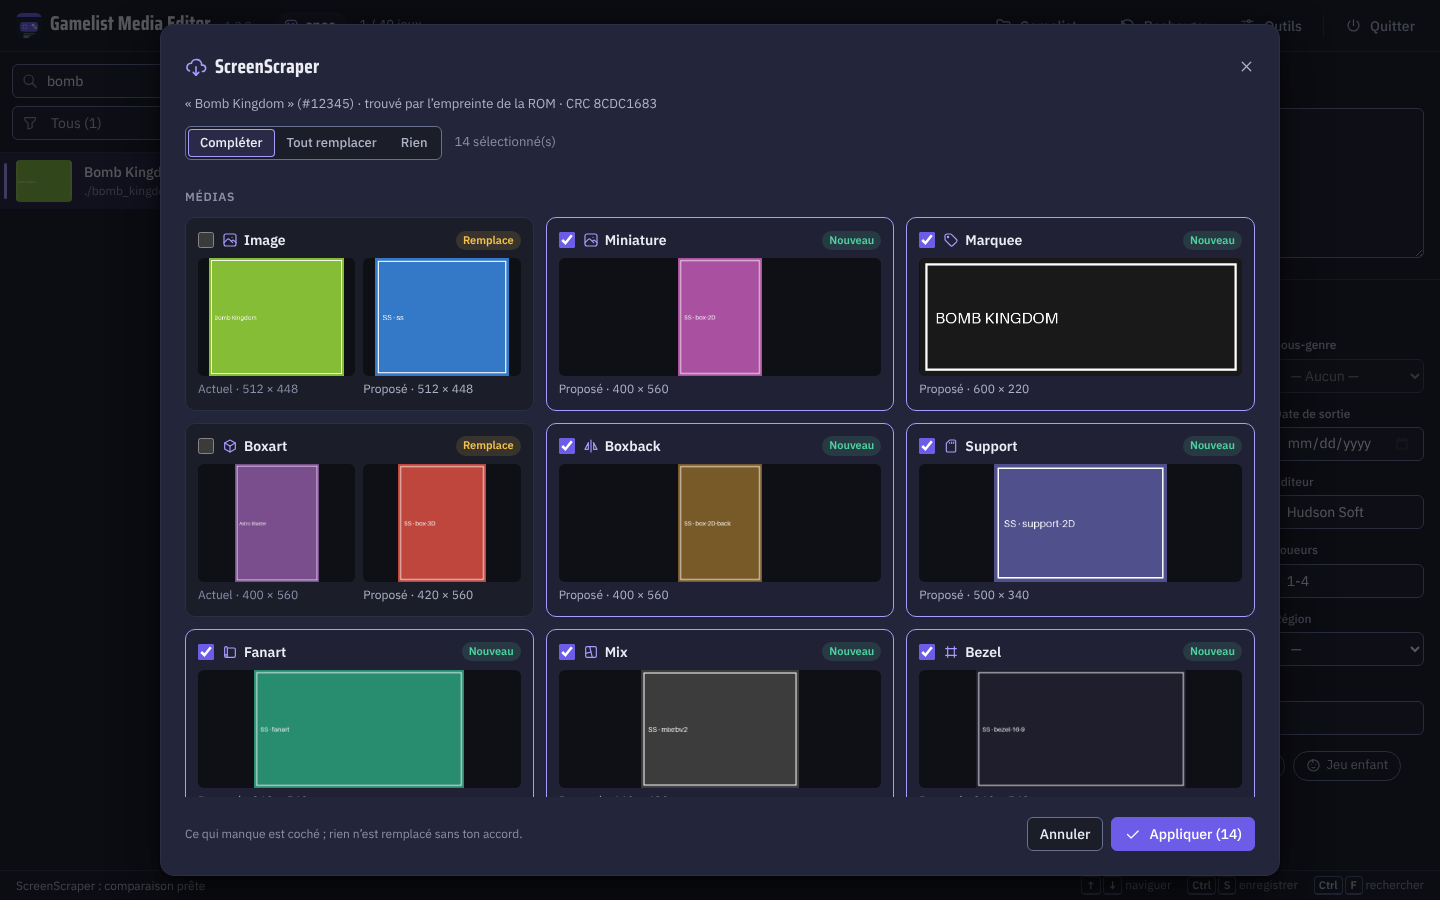
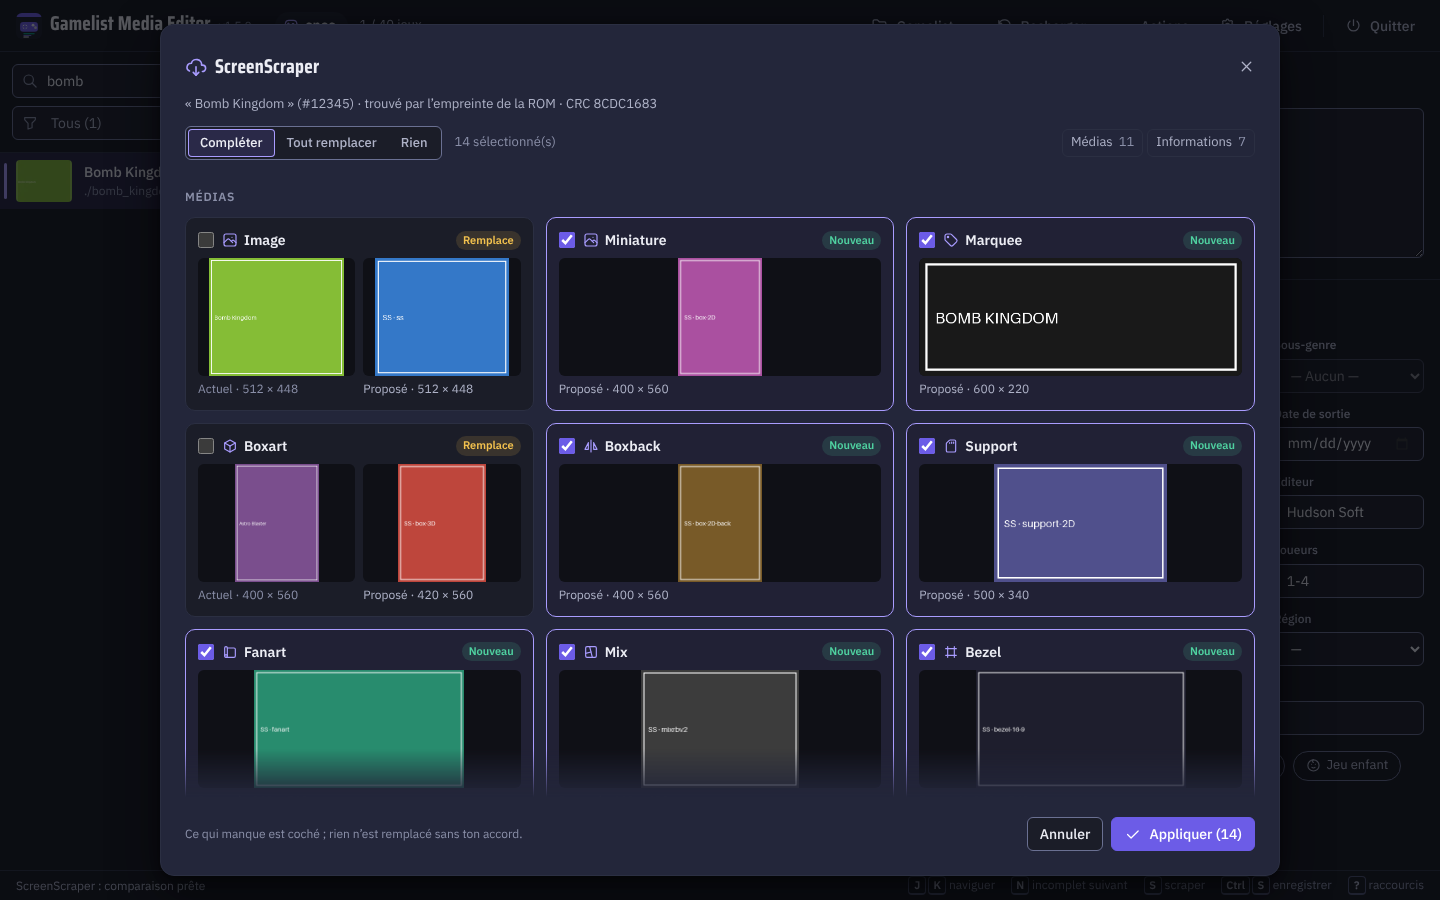
release: v1.5.0
- Version 1.5.0 (2026-11-14) in gme/version.py
- CHANGELOG: Unreleased becomes 1.5.0 with a one-line summary
- Release notes docs/release-notes/RELEASE_NOTES_v1.5.0.md
- README and wiki: version, download link, Check ROMs / Check media,
  required media, Recycle Bin, ui_settings.json, upgrade steps
- New screenshots (editor, scrape, check media)

Claude-Session: https://claude.ai/code/session_01GzUeu3gZTjZemLc2c6HBQD

diff --git a/gme/version.py b/gme/version.py
@@ -2,6 +2,6 @@
 
 
 SS_SOFTNAME = "GamelistMediaEditor"
-APP_VERSION = "1.4.0"          # single source: UI header, About, User-Agent, console
-APP_RELEASE_DATE = "2026-10-24"
+APP_VERSION = "1.5.0"          # single source: UI header, About, User-Agent, console
+APP_RELEASE_DATE = "2026-11-14"
 APP_UA = f"{SS_SOFTNAME}/{APP_VERSION}"

diff --git a/README.md b/README.md
@@ -4,7 +4,7 @@
 
 Local web app to edit the media and metadata of EmulationStation **RetroBat** (and Batocera / Recalbox) `gamelist.xml` files, with drag-and-drop and built-in scrapers.
 
-**Version 1.4.0** · [Documentation (Wiki)](https://github.com/Kraran/gamelist-media-editor/wiki) · [Releases](https://github.com/Kraran/gamelist-media-editor/releases) · [Changelog](CHANGELOG.md)
+**Version 1.5.0** · [Documentation (Wiki)](https://github.com/Kraran/gamelist-media-editor/wiki) · [Releases](https://github.com/Kraran/gamelist-media-editor/releases) · [Changelog](CHANGELOG.md)
 
 ![The editor: game list, media of the selected game, description and metadata](docs/screenshots/editor.png)
 
@@ -14,9 +14,9 @@ Local web app to edit the media and metadata of EmulationStation **RetroBat** (a
 
 **Media**
 - **Media gallery**: each media shown in its own shape (upright boxes, wide logos…) with its size in pixels; missing media grouped below
-- Drag-and-drop (file or image from a web page) or click to choose a file, for **image**, **video**, **marquee**, **manual**, **boxback**, **support** (`cartridge`), **boxart**, **fanart**, **mix**, **maps**
-- RetroBat extras from ScreenScraper: **thumbnail**, **bezel**, **Pad2Key** (`.keys`)
-- Image lightbox, upload limit 50 MB, previous file removed when a media is replaced
+- Drag-and-drop (file or image from a web page) or click to choose a file, for **image**, **video**, **marquee**, **manual**, **boxback**, **support** (`cartridge`), **boxart**, **fanart**, **mix**, **maps**, **thumbnail**, **bezel**
+- RetroBat extra from ScreenScraper: **Pad2Key** (`.keys`)
+- Image lightbox, upload limit 50 MB; a replaced file goes to the Recycle Bin, never when another game still uses it
 
 **Metadata**
 - Name, description, genre, rating (**stars**), release date (**date picker**), developer, publisher, family, players, language and region (**named lists**), `arcadesystemname`; suggestions from the values already in the gamelist
@@ -41,10 +41,12 @@ Local web app to edit the media and metadata of EmulationStation **RetroBat** (a
 - **Keyboard**: `J`/`K` next/previous game, `N` next incomplete, `S` scrape, `Ctrl+S` save, `Ctrl+F` or `/` search, `?` shows the list
 - **Open another `gamelist.xml`** at any time (file browser, the 10 most recent files in one click), **Reload** after an outside edit
 - **Actions** menu (whole gamelist): `.bak` backup, arcade system names from `mame.xml`, **Check ROMs** (gamelist vs files of the folder: add missing ROMs, remove entries without ROM, merge duplicates, export the report), **Check media** (unused media to the Recycle Bin, links to missing files removed, export the report), purge all `<region>` tags
-- **Settings**: language, ScreenScraper member login and media types, scrape source chosen per system, keyboard shortcuts
+- **Settings**: language, ScreenScraper member login, region and media types, scrape source and required media per system, keyboard shortcuts (kept in `ui_settings.json`)
 - Game ⋯ menu: copy the ROM path, delete the game (ROM, tracks / discs, media and XML entry, listed before; files another game uses are kept; to the Recycle Bin) with optional backup
 - Application window without address bar when Edge / Chrome / Brave is available; **Quit** stops the server
 - **13 languages**
+
+![Check media: unused media with their size, links to missing files, clean-up to the Recycle Bin](docs/screenshots/check-media.png)
 
 **Safety**
 - Server bound to `127.0.0.1`; requests from other websites (CSRF) and foreign `Host` headers (DNS rebinding) are rejected
@@ -57,7 +59,7 @@ Local web app to edit the media and metadata of EmulationStation **RetroBat** (a
 
 ### Option A — Windows executable (recommended)
 
-1. Download **`GamelistMediaEditor-Windows-v1.4.0.zip`** from the [v1.4.0 release](https://github.com/Kraran/gamelist-media-editor/releases/tag/v1.4.0)
+1. Download **`GamelistMediaEditor-Windows-v1.5.0.zip`** from the [v1.5.0 release](https://github.com/Kraran/gamelist-media-editor/releases/tag/v1.5.0)
 2. Extract anywhere and run **`GamelistMediaEditor.exe`** (no Python needed)
 3. The app window opens on http://127.0.0.1:5050 — use **Gamelist…** to open a `gamelist.xml`
 

diff --git a/docs/release-notes/RELEASE_NOTES_v1.5.0.md b/docs/release-notes/RELEASE_NOTES_v1.5.0.md
@@ -1,0 +1,52 @@
+# Gamelist Media Editor v1.5.0
+
+Check your gamelist against your ROMs and your media, decide which media each system needs, and never lose a file by mistake.
+
+![The editor](https://raw.githubusercontent.com/Kraran/gamelist-media-editor/v1.5.0/docs/screenshots/editor.png)
+
+## Highlights
+
+**Check ROMs** (Actions menu)
+- Compares the gamelist with the files of its folder: **ROMs missing from the gamelist**, **entries whose ROM is gone**, **games listed twice**
+- Tick what to change, then *Update the gamelist*: missing ROMs are added (ready to scrape), dead entries removed (optionally with their media), duplicates merged into the most complete entry; `.bak` first
+- Understands `.cue` / `.gdi` / `.m3u` tracks and discs, folders such as `Game.ps3`, and MAME: `.chd` disks are never offered as games
+- *Export the report* as a text file; 30,000 files checked in under a second
+
+**Check media** (Actions menu)
+- **Unused media** in `images/`, `videos/`, `manuals/` (with thumbnails and the size to free) and **links to missing files**
+- *Clean up* moves the unused files to the **Recycle Bin** and removes the broken tags; a file any game uses is never offered
+
+![Check media](https://raw.githubusercontent.com/Kraran/gamelist-media-editor/v1.5.0/docs/screenshots/check-media.png)
+
+**Required media per system**
+- Choose, per system, the media a game must have to be complete (by default image, video, marquee and box art; no box on arcade systems)
+- The list count (`3/4`), the *Required media missing* filter and *Next incomplete* (`N`) follow them; a game's missing required media come first
+- **Thumbnail** and **Bezel** are now visible and editable in the editor
+
+**Safer with your files**
+- *Delete this game* lists exactly what goes (ROM, its tracks or discs, the folder named like the ROM, the `.keys` file, the media) and **keeps what another game uses**; everything goes to the **Recycle Bin**
+- Replacing a media sends the old file to the Recycle Bin, and never deletes or overwrites a file another game uses
+- In a confirmation, **Enter on *Cancel* no longer confirms**; a dialog that deletes something opens with the focus on *Cancel*
+
+## Other changes
+
+- Up to **10 recent gamelists**, opened in one click and kept next to the app (they were sometimes forgotten)
+- Language, scrape sources and required media are kept in `ui_settings.json` next to the app; ScreenScraper settings save as they change; 24 preferred regions instead of 5
+- Media gallery: images are no longer cut; a replaced picture shows at once
+- Keyboard: Tab stays inside the open dialog; Enter applies the scrape after ticking a row; the comparison has *Media* / *Information* shortcuts
+- *Purge `<region>`* refreshes the open game; *About* mentions Steam
+
+Full list: [CHANGELOG.md](https://github.com/Kraran/gamelist-media-editor/blob/v1.5.0/CHANGELOG.md)
+
+## Downloads
+
+| File | Description |
+|------|-------------|
+| `GamelistMediaEditor-Windows-v1.5.0.zip` | Standalone Windows `.exe` (no Python needed) |
+| Source code (zip / tar.gz) | Python 3.9+ (`pip install -r requirements.txt`) |
+
+## Upgrade from 1.4.0
+
+Replace the app files and keep `screenscraper_config.json`, `recent_gamelists.json` and, from now on, `ui_settings.json`. Nothing to migrate in `gamelist.xml`; your language and scrape sources are taken over at first start.  
+From source: run `python -m pip install -r requirements.txt` (new dependency **Send2Trash**, for the Recycle Bin).  
+The list count now counts the **required media** of the system: pick them in **Settings › Required media**.

diff --git a/docs/wiki/Fonctionnalités.md b/docs/wiki/Fonctionnalités.md
@@ -1,14 +1,15 @@
 # Fonctionnalités
 
-Version documentée : **1.4.0**
+Version documentée : **1.5.0**
 
 ## Médias
 
-- Glisser-déposer (fichier ou image d’une page web) ou clic pour choisir : image, video, marquee, manual, boxback, **support**, **boxart**, **fanart**, **mix**, **maps**
+- Glisser-déposer (fichier ou image d’une page web) ou clic pour choisir : image, video, marquee, manual, boxback, **support**, **boxart**, **fanart**, **mix**, **maps**, **miniature**, **bezel**
 - Galerie : chaque média dans sa forme, avec sa taille en pixels ou la durée de la vidéo ; médias manquants regroupés
 - Clic image → agrandissement
 - Extensions réelles (PNG/JPG/MP4…), jamais `.php` ; écritures atomiques (jamais de fichier à moitié écrit)
-- Extras RetroBat au scrape ScreenScraper : miniature, bezel 16:9, Pad2Key (`.keys`)
+- Extra RetroBat au scrape ScreenScraper : Pad2Key (`.keys`)
+- Un fichier remplacé va à la **Corbeille** ; un fichier qu’un autre jeu utilise n’est jamais effacé ni écrasé
 
 ## Métadonnées
 
@@ -28,7 +29,7 @@ Version documentée : **1.4.0**
 
 ## Liste
 
-- **Miniatures** et **compteur de médias** par jeu (survol : ce qui manque)
+- **Miniatures** et **compteur de médias requis** par jeu (survol : ce qui manque)
 - Recherche, **filtre** par média manquant avec compteurs
 - **Médias requis par système** : le compteur de la liste, le filtre et **Suivant incomplet** (`N`) s’en servent
 - Rapide sur de très grosses listes (30 000 jeux MAME s’ouvrent en une seconde environ)
@@ -38,14 +39,15 @@ Version documentée : **1.4.0**
 
 - Démarre **sans** gamelist
 - Ouvrir un autre XML (explorateur + récents), recharger depuis le disque
-- **Actions** : `.bak` manuel, systèmes arcade depuis `mame.xml`, purge globale `<region>`
-- Supprimer un jeu (menu ⋯ du jeu), copier le chemin de la ROM
+- **Actions** : `.bak` manuel, systèmes arcade depuis `mame.xml`, **Vérifier les ROMs** (ROMs absentes du gamelist, entrées sans ROM, doublons ; mise à jour et rapport), **Vérifier les médias** (médias inutilisés à la Corbeille, liens cassés retirés ; rapport), purge globale `<region>`
+- Supprimer un jeu (menu ⋯ du jeu) : la fenêtre liste les fichiers qui partent (ROM, pistes et disques, médias) et ceux gardés car un autre jeu les utilise ; tout va à la Corbeille
+- Copier le chemin de la ROM
 - Fenêtre Chromium `--app=` (pas de barre d’adresse)
 
 ## Interface
 
 - Thème sombre, polices et icônes intégrées (fonctionne hors ligne)
-- **Réglages** : langue, ScreenScraper, sources de scrape, raccourcis
+- **Réglages** : langue, ScreenScraper, sources de scrape, médias requis, raccourcis ; gardés dans `ui_settings.json` à côté de l’exe
 - **Clavier** : `J`/`K`, `N`, `S`, `Ctrl+S`, `Ctrl+F`, `?`
 - 13 langues
 - À propos (clic logo), Quitter
@@ -55,6 +57,6 @@ Version documentée : **1.4.0**
 - `127.0.0.1:5050` uniquement ; requêtes d’autres sites (CSRF) et en-têtes `Host` étrangers refusés
 - Chaque action vise le jeu par son `<path>` : si le XML a changé entre-temps, elle atteint le bon jeu ou est refusée
 - Limite 50 Mo, écritures du XML sérialisées et atomiques
-- Tests automatiques (Windows / Linux, navigateur) et exe construit par la CI ; exe sur la [release](https://github.com/Kraran/gamelist-media-editor/releases/tag/v1.4.0)
+- Tests automatiques (Windows / Linux, navigateur) et exe construit par la CI ; exe sur la [release](https://github.com/Kraran/gamelist-media-editor/releases/tag/v1.5.0)
 
-**Gamelist Media Editor** · v1.4.0
+**Gamelist Media Editor** · v1.5.0

diff --git a/docs/wiki/Home.md b/docs/wiki/Home.md
@@ -1,15 +1,16 @@
 # Gamelist Media Editor — Wiki
 
-**Version documentée : 1.4.0**
+**Version documentée : 1.5.0**
 
 ## En deux mots
 
 Application web **locale** (sur ton PC uniquement) qui te permet de :
 
-- glisser-déposer **image, vidéo, marquee, manuel, boxback, support, boxart, fanart, mix, maps** ;
+- glisser-déposer **image, vidéo, marquee, manuel, boxback, support, boxart, fanart, mix, maps, miniature, bezel** ;
 - **scraper** un jeu avec un seul bouton (**ScreenScraper**, **Arcade Database** ou **Steam** selon le système) et **comparer** l’actuel et le proposé avant d’appliquer ;
 - voir d’un coup d’œil ce qui manque (**miniatures** et **compteur de médias requis** dans la liste, filtre par média manquant, **Suivant incomplet**) ;
 - éditer nom, description, genre, note (étoiles), date, langue, région, système arcade, favori / caché / jeu enfant, avec **une seule barre d’enregistrement** ;
+- **vérifier** le gamelist face aux ROMs du dossier (ROMs absentes, entrées sans ROM, doublons) et aux médias (médias inutilisés, liens cassés), avec un rapport ;
 - travailler au **clavier** (`J`/`K`, `N`, `S`, `Ctrl+S`…) ;
 - **ouvrir un autre `gamelist.xml`** sans redémarrer, en **13 langues**.
 
@@ -17,7 +18,7 @@ Tout est écrit **directement** dans ton `gamelist.xml`. Aucun cloud obligatoire
 
 ## Installation rapide (Windows)
 
-1. Télécharge **`GamelistMediaEditor-Windows-v1.4.0.zip`** sur la [release v1.4.0](https://github.com/Kraran/gamelist-media-editor/releases/tag/v1.4.0)
+1. Télécharge **`GamelistMediaEditor-Windows-v1.5.0.zip`** sur la [release v1.5.0](https://github.com/Kraran/gamelist-media-editor/releases/tag/v1.5.0)
 2. Dézippe → double-clic sur **`GamelistMediaEditor.exe`**
 3. Une fenêtre application s’ouvre (sans barre d’adresse si Edge / Chrome / Brave est dispo)
 4. **Gamelist…** pour ouvrir ton `gamelist.xml`
@@ -33,14 +34,14 @@ Source Python : voir [Installation](Installation).
 | [Installation](Installation) | Exe Windows, source Python, structure des médias, mise à jour |
 | [Utilisation](Utilisation) | Interface, médias, métadonnées, menus, réglages, raccourcis |
 | [Scrapers](Scrapers) | Bouton Scraper, comparaison, ScreenScraper, Arcade Database, Steam |
-| [Fonctionnalités](Fonctionnalités) | Liste détaillée (v1.4.0) |
+| [Fonctionnalités](Fonctionnalités) | Liste détaillée (v1.5.0) |
 | [FAQ](FAQ) | Questions fréquentes |
 | [Dépannage](Dépannage) | Erreurs courantes |
 
 ## Liens
 
 - [Dépôt](https://github.com/Kraran/gamelist-media-editor)
-- [Release v1.4.0](https://github.com/Kraran/gamelist-media-editor/releases/tag/v1.4.0)
+- [Release v1.5.0](https://github.com/Kraran/gamelist-media-editor/releases/tag/v1.5.0)
 - Interface locale : [http://127.0.0.1:5050](http://127.0.0.1:5050)
 
-**Gamelist Media Editor** · v1.4.0
+**Gamelist Media Editor** · v1.5.0

diff --git a/docs/wiki/Installation.md b/docs/wiki/Installation.md
@@ -1,11 +1,11 @@
 # Installation
 
-Version documentée : **1.4.0**
+Version documentée : **1.5.0**
 
 ## Option A — Exécutable Windows (recommandé)
 
-1. Ouvre la [release v1.4.0](https://github.com/Kraran/gamelist-media-editor/releases/tag/v1.4.0)
-2. Télécharge **`GamelistMediaEditor-Windows-v1.4.0.zip`**
+1. Ouvre la [release v1.5.0](https://github.com/Kraran/gamelist-media-editor/releases/tag/v1.5.0)
+2. Télécharge **`GamelistMediaEditor-Windows-v1.5.0.zip`**
 3. Décompresse où tu veux
 4. Lance **`GamelistMediaEditor.exe`**
 
@@ -69,11 +69,14 @@ Les fichiers **Pad2Key** (`.keys`) vont **à côté de la ROM**, pas dans `image
 
 Le dossier `cache` peut être supprimé sans risque.
 
-## Mise à jour 1.3.0 → 1.4.0
+## Mise à jour vers 1.5.0
 
 - Remplace les fichiers de l’app (garde `screenscraper_config.json`, `ui_settings.json` et `recent_gamelists.json`)
-- En source : `python -m pip install -r requirements.txt`
+- En source : `python -m pip install -r requirements.txt` (nouvelle dépendance **Send2Trash**, pour la Corbeille)
 - Aucune migration du `gamelist.xml`
-- Les **Outils** sont devenus **Réglages** (roue dentée) et **Actions** (⋯) : voir [Utilisation](Utilisation)
+- Au premier lancement, la langue et les sources de scrape choisies avant sont reprises dans `ui_settings.json`
+- Le compteur de la liste compte maintenant les **médias requis** du système (`3/4`) : choisis-les dans **Réglages › Médias requis**
 
-**Gamelist Media Editor** · v1.4.0
+Depuis la 1.3.0 : les **Outils** sont devenus **Réglages** (roue dentée) et **Actions** (⋯), voir [Utilisation](Utilisation).
+
+**Gamelist Media Editor** · v1.5.0

diff --git a/CHANGELOG.md b/CHANGELOG.md
@@ -2,7 +2,9 @@
 
 All notable changes to Gamelist Media Editor are documented in this file.
 
-## [Unreleased]
+## [1.5.0] - 2026-11-14
+
+Check ROMs and Check media, required media per system, safer deletions (Recycle Bin, files shared between games kept), settings kept next to the app. Release notes: [docs/release-notes/RELEASE_NOTES_v1.5.0.md](docs/release-notes/RELEASE_NOTES_v1.5.0.md).
 
 ### Added
 - **Required media per system** (Settings › Required media, or *Required media…* above a game's missing media): the media a game must have to be complete, by default image, video, marquee and box art (no box on arcade systems). The list count (`3/4`), the *Required media missing* filter and *Next incomplete* use them; a game's missing required media come first, the others under *Optional*. Each system keeps its own choice; the other customized systems are listed with a way back to the default

diff --git a/docs/wiki/_Sidebar.md b/docs/wiki/_Sidebar.md
@@ -1,4 +1,4 @@
-**Gamelist Media Editor** · v1.4.0
+**Gamelist Media Editor** · v1.5.0
 
 - [Accueil](Home)
 - [Installation](Installation)
@@ -11,5 +11,5 @@
 ---
 
 [Code source](https://github.com/Kraran/gamelist-media-editor)  
-[Release v1.4.0](https://github.com/Kraran/gamelist-media-editor/releases/tag/v1.4.0)  
+[Release v1.5.0](https://github.com/Kraran/gamelist-media-editor/releases/tag/v1.5.0)  
 [Signaler un bug](https://github.com/Kraran/gamelist-media-editor/issues)

diff --git a/docs/wiki/Dépannage.md b/docs/wiki/Dépannage.md
@@ -1,6 +1,6 @@
 # Dépannage
 
-Version documentée : **1.4.0**
+Version documentée : **1.5.0**
 
 ### « ModuleNotFoundError: flask » ou « Pillow »
 
@@ -57,4 +57,4 @@ Le `gamelist.xml` a été modifié par un autre programme pendant que l’app é
 
 Elles sont créées au premier affichage dans `cache\thumbs\` à côté de l’exe. Supprimer le dossier `cache` les régénère.
 
-**Gamelist Media Editor** · v1.4.0
+**Gamelist Media Editor** · v1.5.0

diff --git a/docs/wiki/FAQ.md b/docs/wiki/FAQ.md
@@ -1,6 +1,6 @@
 # FAQ
 
-Version documentée : **1.4.0**
+Version documentée : **1.5.0**
 
 ### Faut-il Python ?
 
@@ -51,4 +51,4 @@ Le bouton Scraper choisit la source selon le dossier du système (arcade → Arc
 
 Filtre sur un média manquant, puis `N` (jeu incomplet suivant), `S` (scraper), Entrée (appliquer), et ainsi de suite.
 
-**Gamelist Media Editor** · v1.4.0
+**Gamelist Media Editor** · v1.5.0

diff --git a/docs/wiki/_Footer.md b/docs/wiki/_Footer.md
@@ -1,1 +1,1 @@
-Gamelist Media Editor **v1.4.0** — MIT License — [GitHub](https://github.com/Kraran/gamelist-media-editor) · [Releases](https://github.com/Kraran/gamelist-media-editor/releases)
+Gamelist Media Editor **v1.5.0** — MIT License — [GitHub](https://github.com/Kraran/gamelist-media-editor) · [Releases](https://github.com/Kraran/gamelist-media-editor/releases)

diff --git a/docs/wiki/Utilisation.md b/docs/wiki/Utilisation.md
@@ -1,6 +1,6 @@
 # Utilisation
 
-Version documentée : **1.4.0**
+Version documentée : **1.5.0**
 
 ## Démarrage
 
@@ -135,4 +135,4 @@ Les lettres ne font rien pendant la saisie dans un champ.
 
 **Quitter** arrête le serveur. Fermer la fenêtre application l’arrête aussi.
 
-**Gamelist Media Editor** · v1.4.0
+**Gamelist Media Editor** · v1.5.0
